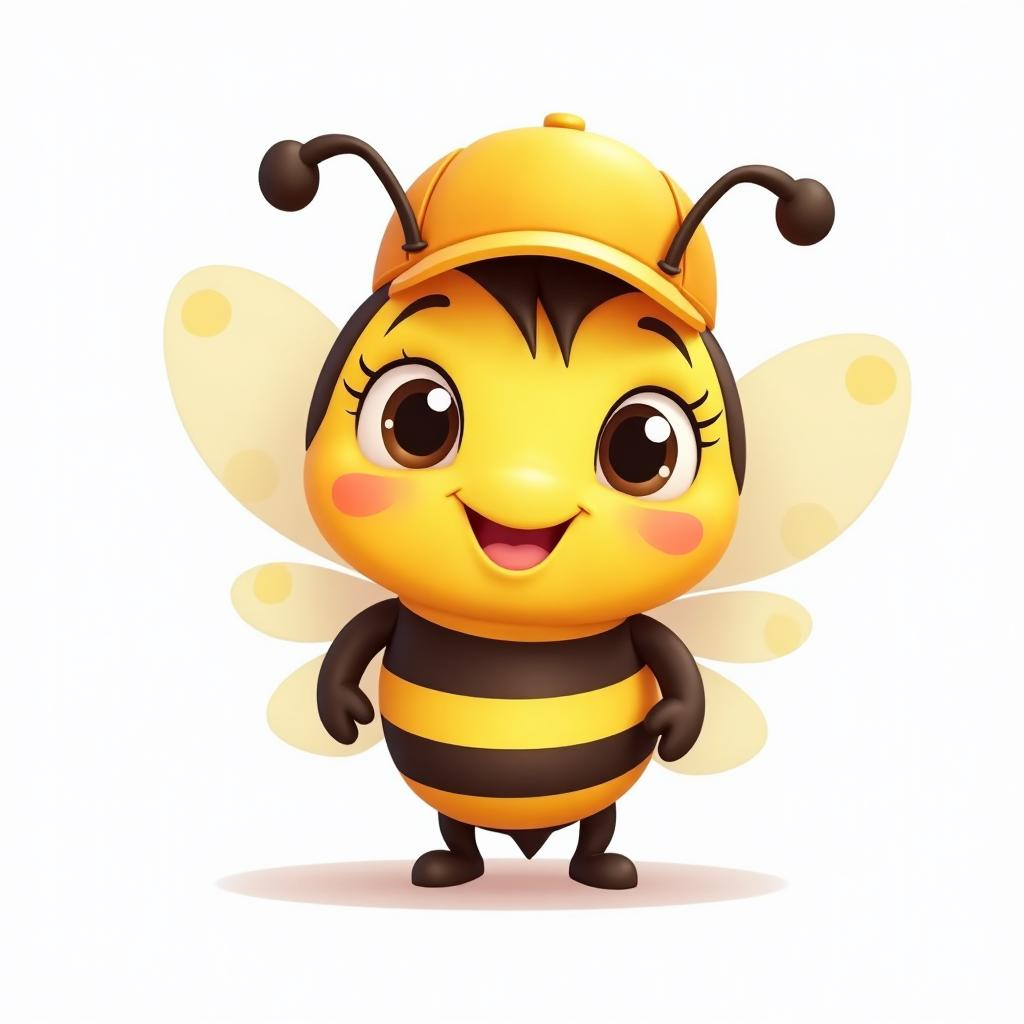
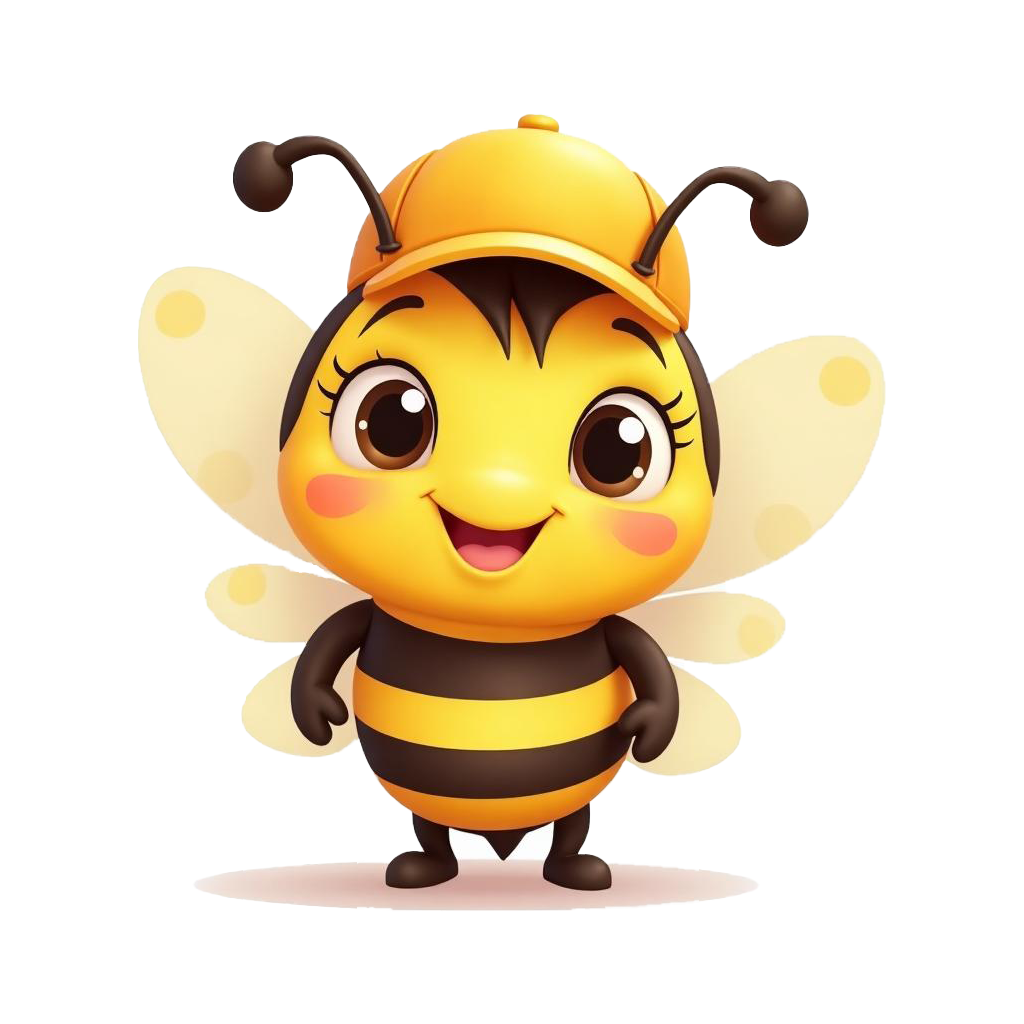
Initial commit

Changed region(s): [[0.125, 0.0938, 0.9062, 0.875], [0.6562, 0.8438, 0.75, 0.875], [0.1875, 0.8438, 0.25, 0.875]]

diff --git a/index.html b/index.html
@@ -2,19 +2,18 @@
 <html lang="en">
   <head>
     <meta charset="UTF-8" />
+    <link rel="icon" type="image/png" href="/src/assets/bee-mascot.png" />
     <meta name="viewport" content="width=device-width, initial-scale=1.0" />
-    <title>Kunnathur Carry Bee - Fast Local Delivery</title>
+    <title>Kunnathur Carry Bee</title>
     <meta name="description" content="Fast, local & friendly delivery service in Kunnathur. Order from your favorite local stores - groceries, medicines, food & more!" />
     <meta name="author" content="Kunnathur Carry Bee" />
 
     <meta property="og:title" content="Kunnathur Carry Bee - Fast Local Delivery" />
     <meta property="og:description" content="Order from local stores with fast delivery" />
     <meta property="og:type" content="website" />
-    <meta property="og:image" content="https://lovable.dev/opengraph-image-p98pqg.png" />
 
     <meta name="twitter:card" content="summary_large_image" />
     <meta name="twitter:site" content="@CarryBee" />
-    <meta name="twitter:image" content="https://lovable.dev/opengraph-image-p98pqg.png" />
     
     <!-- Google Fonts -->
     <link rel="preconnect" href="https://fonts.googleapis.com" />
